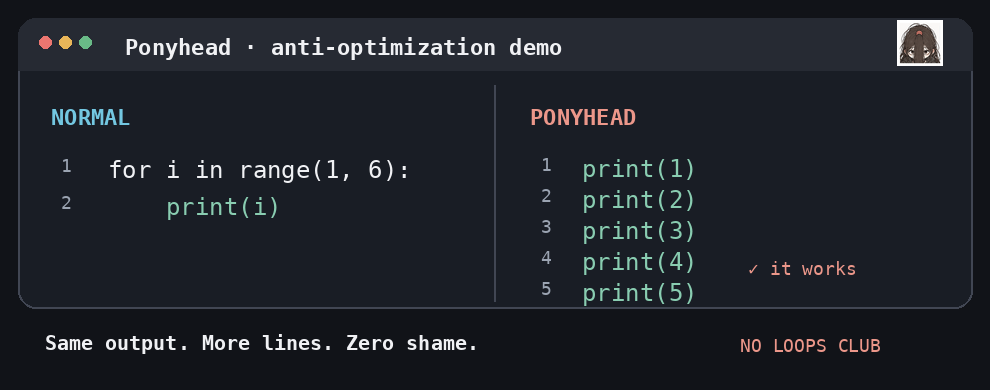
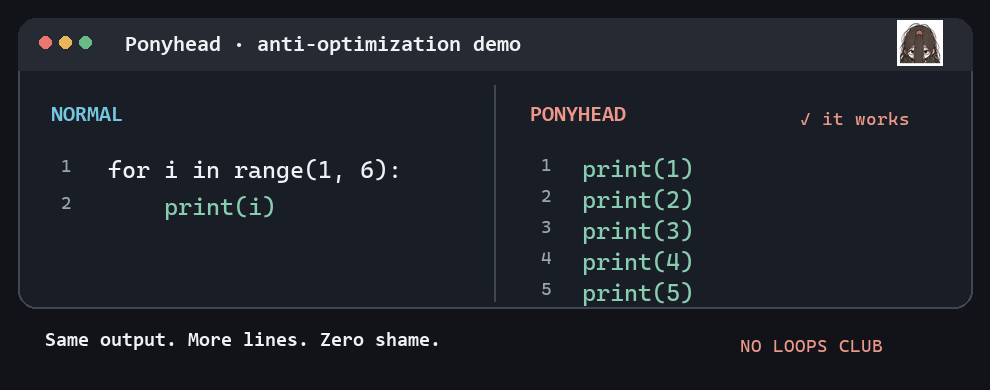
feat: add non-loop examples to README, demo, and tests

diff --git a/scripts/build_demo.py b/scripts/build_demo.py
@@ -41,16 +41,32 @@ def make_mascot() -> Image.Image:
 
 
 def make_frames(avatar: Image.Image) -> list[Image.Image]:
+    scenes=[
+        (["for i in range(1, 6):", "    print(i)"],
+         ["print(1)","print(2)","print(3)","print(4)","print(5)"],
+         "Same output. More lines. Zero shame."),
+        (["n % 2 == 0"], ['str(n)[-1] in "02468"'],
+         "Even numbers end in an even digit. Obviously."),
+        (["return x > 0"],
+         ["if x > 0:","    if (x > 0) == True:","        return True","else:","    return False"],
+         "Checked twice, just to be sure."),
+        (["3 * 4"], ["4 + 4 + 4"], "Multiplication is just patient addition."),
+    ]
+    frames=[]
+    for left, right, footer in scenes:
+        stages=list(range(len(right)))+[len(right)]*4
+        durations=[420]*len(right)+[450,500,500,850]
+        frames+=draw_scene(avatar,left,right,footer,stages,durations)
+    return frames
+
+
+def draw_scene(avatar, left, right, footer, stages, durations):
     W,H=990,390
     dark=(17,19,24); panel=(25,29,37); panel_border=(65,70,83)
     warm=(236,151,138); white=(240,241,244); muted=(155,164,178)
     line_color=(137,205,177); cyan=(115,199,225)
     line_font=font(24); title_font=font(22,True); small=font(18); note=font(20,True)
-    left=["for i in range(1, 6):", "    print(i)"]
-    right=["print(1)","print(2)","print(3)","print(4)","print(5)"]
     frames=[]
-    stages=[0,1,2,3,4,5,5,5,5]
-    durations=[400,420,450,430,430,450,500,500,850]
     for tick, stage in enumerate(stages):
         img=Image.new("RGB",(W,H),dark);d=ImageDraw.Draw(img)
         d.rounded_rectangle((18,18,972,308),radius=18,fill=panel,outline=panel_border,width=2)
@@ -69,13 +85,13 @@ def make_frames(avatar: Image.Image) -> list[Image.Image]:
             yy=154+i*31
             d.text((530,yy),f"{i+1:>2} ",font=small,fill=muted)
             d.text((582,yy),s,font=line_font,fill=line_color)
-        if stage<5:
+        if stage<len(right):
             yy=154+stage*31
             if tick%2==0:
                 d.rounded_rectangle((583,yy+2,594,yy+25),radius=2,fill=warm)
         else:
-            d.text((748,258),"✓ it works",font=small,fill=warm)
-        d.text((45,331),"Same output. More lines. Zero shame.",font=note,fill=white)
+            d.text((800,108),"✓ it works",font=small,fill=warm)
+        d.text((45,331),footer,font=note,fill=white)
         d.text((740,335),"NO LOOPS CLUB",font=small,fill=warm)
         # Mini avatar at right-top: delightful, but not distracting.
         mascot=avatar.copy();mascot.thumbnail((46,46),Image.Resampling.LANCZOS)
@@ -88,10 +104,11 @@ def make_frames(avatar: Image.Image) -> list[Image.Image]:
 def main():
     avatar=make_mascot()
     frames=make_frames(avatar)
+    loop_scene_end=8  # last frame of the first (loop) scene
     # GIF source is deterministic, and loops rather than uploading a video.
     frames[0].save(ASSETS/"ponyhead-demo.gif",format="GIF",save_all=True,append_images=frames[1:],duration=[x.info['duration'] for x in frames],loop=0,optimize=True)
     # Also provide a still for contexts that don't auto-play GIFs.
-    frames[-1].save(ASSETS/"ponyhead-demo-still.png",optimize=True)
+    frames[loop_scene_end].save(ASSETS/"ponyhead-demo-still.png",optimize=True)
     print("Created", ASSETS/"ponyhead-demo.gif")
 
 if __name__ == "__main__":

diff --git a/examples/cases.py b/examples/cases.py
@@ -1,0 +1,111 @@
+"""More normal vs Ponyhead pairs. Each pair returns the same result for the inputs in tests."""
+
+
+def is_even_normal(n):
+    return n % 2 == 0
+
+
+def is_even_ponyhead(n):
+    # Even numbers end in an even digit. Obviously.
+    return str(n)[-1] in "02468"
+
+
+def is_positive_normal(x):
+    return x > 0
+
+
+def is_positive_ponyhead(x):
+    if x > 0:
+        if (x > 0) == True:  # checked twice, just to be sure
+            return True
+    else:
+        return False
+
+
+def twelve_normal():
+    return 3 * 4
+
+
+def twelve_ponyhead():
+    return 4 + 4 + 4
+
+
+def day_name_normal(i):
+    return ["Mon", "Tue", "Wed", "Thu", "Fri", "Sat", "Sun"][i]
+
+
+def day_name_ponyhead(i):
+    if i == 0:
+        return "Mon"
+    elif i == 1:
+        return "Tue"
+    elif i == 2:
+        return "Wed"
+    elif i == 3:
+        return "Thu"
+    elif i == 4:
+        return "Fri"
+    elif i == 5:
+        return "Sat"
+    elif i == 6:
+        return "Sun"
+
+
+def swap_normal(a, b):
+    a, b = b, a
+    return a, b
+
+
+def swap_ponyhead(a, b):
+    temp = a
+    temp2 = b
+    a = temp2
+    b = temp
+    return a, b
+
+
+def bigger_normal(a, b):
+    return max(a, b)
+
+
+def bigger_ponyhead(a, b):
+    if a > b:
+        return a
+    elif b > a:
+        return b
+    elif a == b:
+        return a
+
+
+def absolute_normal(x):
+    return abs(x)
+
+
+def absolute_ponyhead(x):
+    if x < 0:
+        return x * -1
+    if x == 0:
+        return 0
+    return x
+
+
+def is_empty_normal(items):
+    return not items
+
+
+def is_empty_ponyhead(items):
+    if len(items) == 0:
+        return True
+    if len(items) != 0:
+        return False
+
+
+def reverse_normal(s):
+    return s[::-1]
+
+
+def reverse_ponyhead(s):
+    result = ""
+    for ch in s:
+        result = ch + result
+    return result

diff --git a/tests/test_examples.py b/tests/test_examples.py
@@ -1,11 +1,18 @@
-"""A tiny real equivalence check for README's *fixed example*."""
+"""Real equivalence checks for the README's fixed examples."""
 import runpy
+import sys
 import unittest
 from contextlib import redirect_stdout
 from io import StringIO
 from pathlib import Path
 
 EXAMPLES = Path(__file__).resolve().parents[1] / "examples"
+sys.path.insert(0, str(EXAMPLES))
+
+import cases
+
+NUMBERS = range(-1000, 1001)
+SMALL = range(-20, 21)
 
 
 def capture(path: Path) -> str:
@@ -19,6 +26,25 @@ class ExampleTest(unittest.TestCase):
     def test_fixed_example(self):
         self.assertEqual(capture(EXAMPLES / "normal.py"), capture(EXAMPLES / "ponyhead.py"))
         self.assertEqual(capture(EXAMPLES / "ponyhead.py"), "1\n2\n3\n4\n5\n")
+
+    def test_cases(self):
+        inputs = {
+            "is_even": [(n,) for n in NUMBERS],
+            "is_positive": [(n,) for n in NUMBERS],
+            "twelve": [()],
+            "day_name": [(i,) for i in range(7)],
+            "swap": [(a, b) for a in SMALL for b in SMALL],
+            "bigger": [(a, b) for a in SMALL for b in SMALL],
+            "absolute": [(n,) for n in NUMBERS],
+            "is_empty": [([],), ([0],), ("",), ("x",), ((),)],
+            "reverse": [("",), ("a",), ("hello",), ("가나다",)],
+        }
+        for name, args_list in inputs.items():
+            normal = getattr(cases, f"{name}_normal")
+            ponyhead = getattr(cases, f"{name}_ponyhead")
+            for args in args_list:
+                with self.subTest(name=name, args=args):
+                    self.assertEqual(normal(*args), ponyhead(*args))
 
 
 if __name__ == "__main__":

diff --git a/README.md b/README.md
@@ -11,7 +11,7 @@
 <p align="center"><sub>Why use a loop when you can copy and paste?</sub></p>
 
 <p align="center">
-  <img src="assets/ponyhead-demo.gif" alt="Animated terminal comparison: a two-line Python loop becomes five explicit print statements" width="760" />
+  <img src="assets/ponyhead-demo.gif" alt="Animated terminal comparison: a loop becomes five print statements, an even check reads the last digit, a positive check runs twice, and 3 * 4 becomes 4 + 4 + 4" width="760" />
 </p>
 
 ---
@@ -42,6 +42,22 @@ print(5)
 ```
 
 Same output **for this fixed example**. More lines. More effort. Absolutely no shame. (For a dynamic range, this is *not* an equivalent general solution.)
+
+### Not just loops
+
+| Normal | Ponyhead |
+| --- | --- |
+| `n % 2 == 0` | `str(n)[-1] in "02468"` *(even numbers end in an even digit, obviously)* |
+| `return x > 0` | `if x > 0:` / `if (x > 0) == True: return True` / `else: return False` *(checked twice)* |
+| `3 * 4` | `4 + 4 + 4` |
+| `["Mon", ..., "Sun"][i]` | `if i == 0: return "Mon"` / `elif i == 1: ...` ×7 |
+| `a, b = b, a` | `temp = a` / `temp2 = b` / `a = temp2` / `b = temp` |
+| `max(a, b)` | `if a > b` / `elif b > a` / `elif a == b` |
+| `abs(x)` | `if x < 0: return x * -1`, with zero handled separately |
+| `not items` | `if len(items) == 0: return True` / `if len(items) != 0: return False` |
+| `s[::-1]` | prepend one character at a time |
+
+Full code in [`examples/cases.py`](examples/cases.py); each pair is checked for equal results in [`tests/test_examples.py`](tests/test_examples.py).
 
 ## Carefully engineered inefficiency
 
